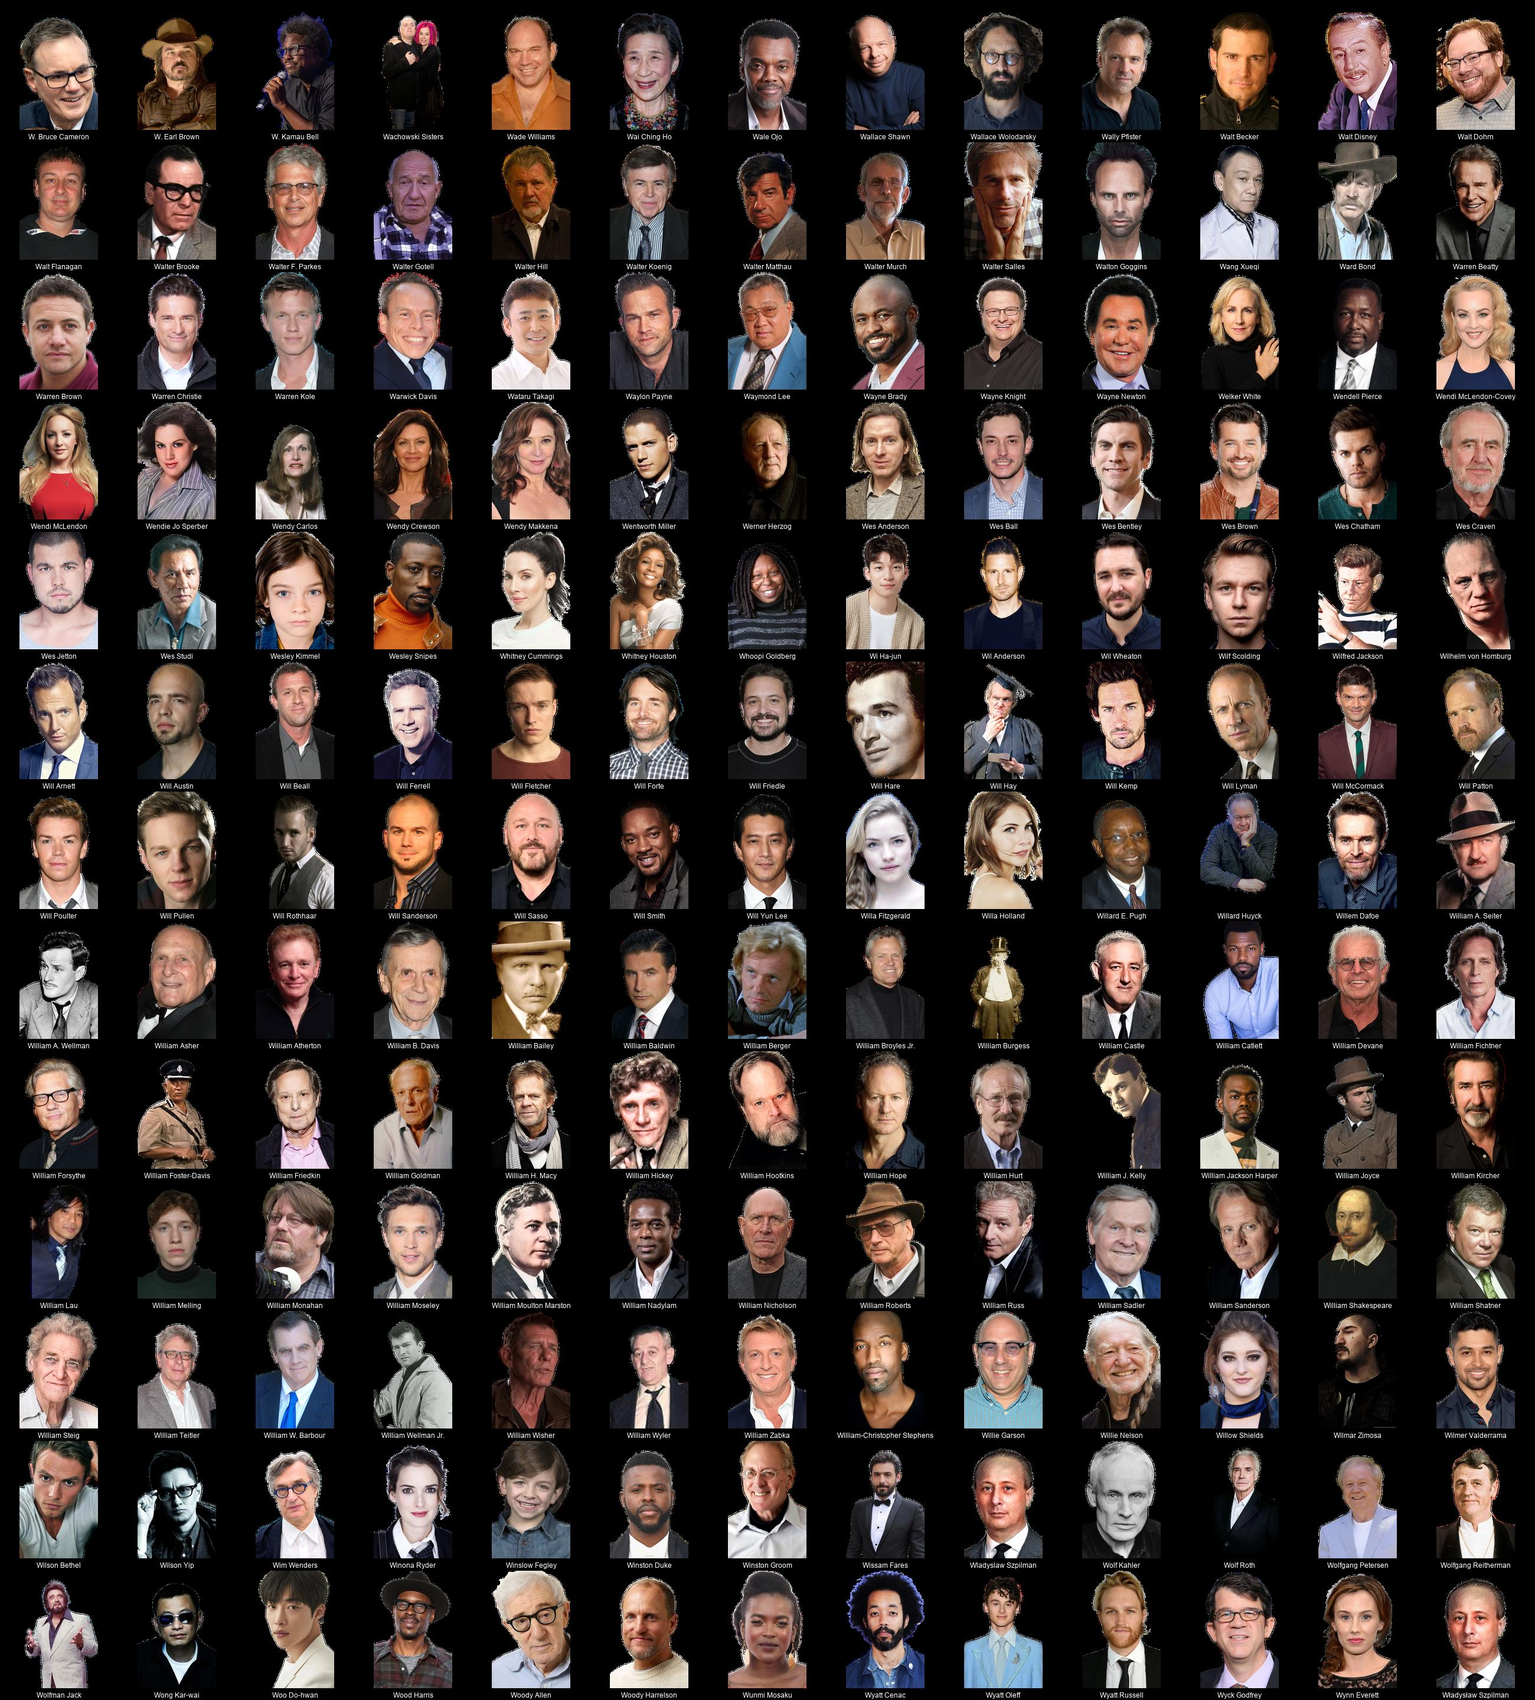
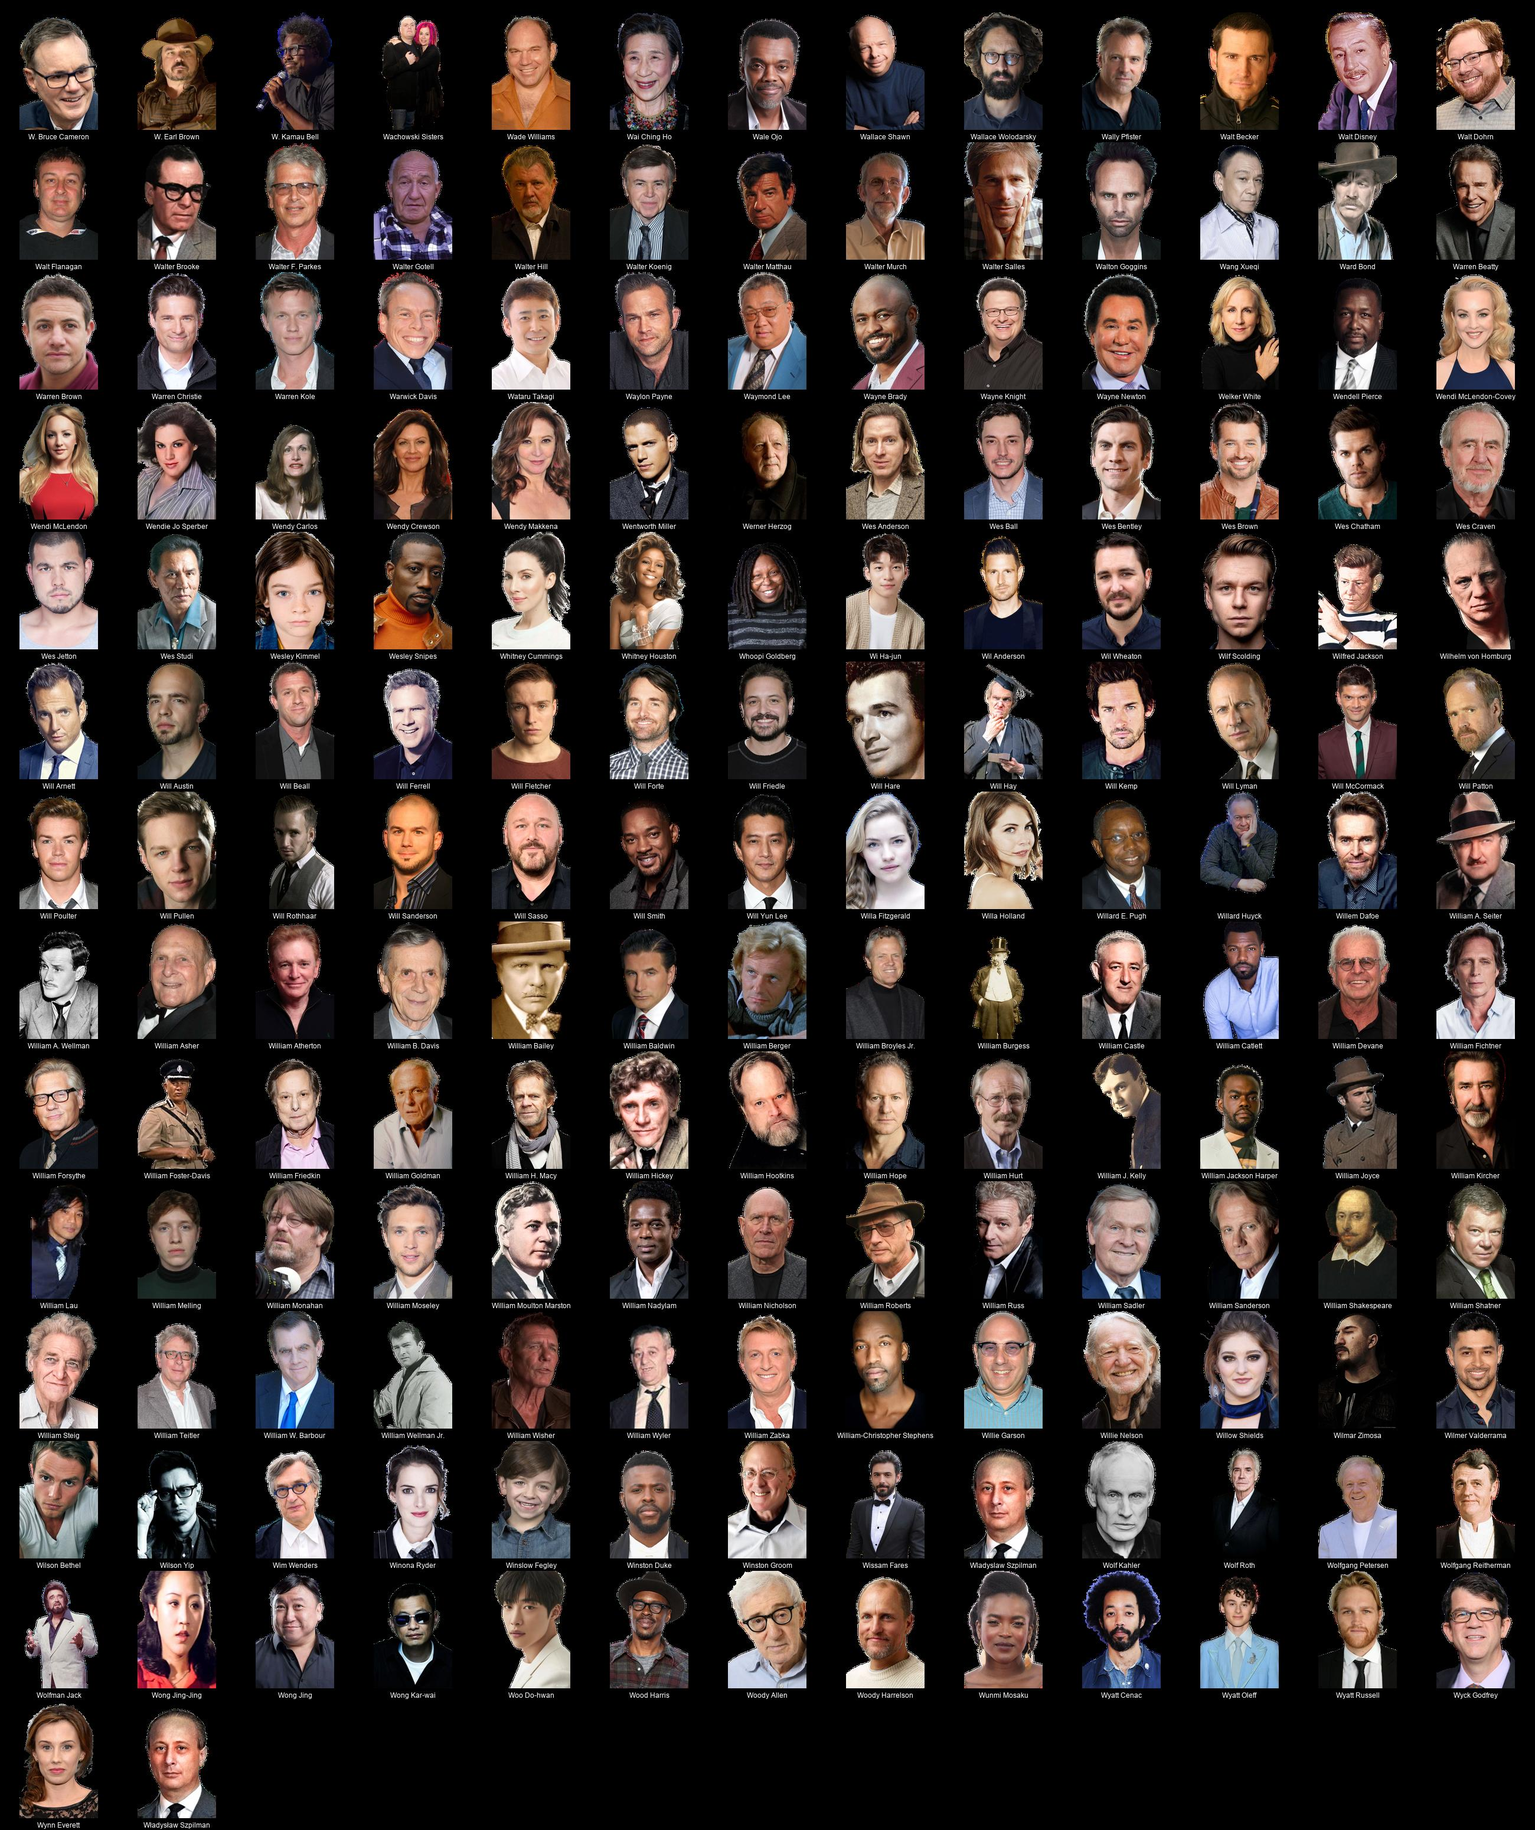
more people

diff --git a/README.md b/README.md
@@ -1,10 +1,10 @@
-# Kometa People Images - Transparent (transparent) (9437 Images)
+# Kometa People Images - Transparent (transparent) (9451 Images)
 
 <details><summary><a href="'">' (1 Images)</a></summary>
 
 * ['Weird Al' Yankovic](https://raw.githubusercontent.com/Kometa-Team/People-Images-transparent/master/'/Images/%27Weird%20Al%27%20Yankovic.png)
 </details>
-<details><summary><a href="A">A (772 Images)</a></summary>
+<details><summary><a href="A">A (773 Images)</a></summary>
 
 * [AJ Kane](https://raw.githubusercontent.com/Kometa-Team/People-Images-transparent/master/A/Images/AJ%20Kane.png)
 * [Aamir Khan](https://raw.githubusercontent.com/Kometa-Team/People-Images-transparent/master/A/Images/Aamir%20Khan.png)
@@ -484,6 +484,7 @@
 * [Andy Buckley](https://raw.githubusercontent.com/Kometa-Team/People-Images-transparent/master/A/Images/Andy%20Buckley.png)
 * [Andy Dick](https://raw.githubusercontent.com/Kometa-Team/People-Images-transparent/master/A/Images/Andy%20Dick.png)
 * [Andy García](https://raw.githubusercontent.com/Kometa-Team/People-Images-transparent/master/A/Images/Andy%20Garc%C3%ADa.png)
+* [Andy Griffith](https://raw.githubusercontent.com/Kometa-Team/People-Images-transparent/master/A/Images/Andy%20Griffith.png)
 * [Andy Hoff](https://raw.githubusercontent.com/Kometa-Team/People-Images-transparent/master/A/Images/Andy%20Hoff.png)
 * [Andy Le](https://raw.githubusercontent.com/Kometa-Team/People-Images-transparent/master/A/Images/Andy%20Le.png)
 * [Andy Muschietti](https://raw.githubusercontent.com/Kometa-Team/People-Images-transparent/master/A/Images/Andy%20Muschietti.png)
@@ -779,7 +780,7 @@
 * [Azhar Usman](https://raw.githubusercontent.com/Kometa-Team/People-Images-transparent/master/A/Images/Azhar%20Usman.png)
 * [Aziz Ansari](https://raw.githubusercontent.com/Kometa-Team/People-Images-transparent/master/A/Images/Aziz%20Ansari.png)
 </details>
-<details><summary><a href="B">B (475 Images)</a></summary>
+<details><summary><a href="B">B (477 Images)</a></summary>
 
 * [B.J. Penn](https://raw.githubusercontent.com/Kometa-Team/People-Images-transparent/master/B/Images/B.J.%20Penn.png)
 * [BD Wong](https://raw.githubusercontent.com/Kometa-Team/People-Images-transparent/master/B/Images/BD%20Wong.png)
@@ -1108,6 +1109,7 @@
 * [Brendan Gleeson](https://raw.githubusercontent.com/Kometa-Team/People-Images-transparent/master/B/Images/Brendan%20Gleeson.png)
 * [Brendan Hines](https://raw.githubusercontent.com/Kometa-Team/People-Images-transparent/master/B/Images/Brendan%20Hines.png)
 * [Brendan Hunt](https://raw.githubusercontent.com/Kometa-Team/People-Images-transparent/master/B/Images/Brendan%20Hunt.png)
+* [Brendan O'Carroll](https://raw.githubusercontent.com/Kometa-Team/People-Images-transparent/master/B/Images/Brendan%20O%27Carroll.png)
 * [Brendan Penny](https://raw.githubusercontent.com/Kometa-Team/People-Images-transparent/master/B/Images/Brendan%20Penny.png)
 * [Brendan Schaub](https://raw.githubusercontent.com/Kometa-Team/People-Images-transparent/master/B/Images/Brendan%20Schaub.png)
 * [Brendan Wayne](https://raw.githubusercontent.com/Kometa-Team/People-Images-transparent/master/B/Images/Brendan%20Wayne.png)
@@ -1237,6 +1239,7 @@
 * [Bryce Johnson](https://raw.githubusercontent.com/Kometa-Team/People-Images-transparent/master/B/Images/Bryce%20Johnson.png)
 * [Bráulio Mantovani](https://raw.githubusercontent.com/Kometa-Team/People-Images-transparent/master/B/Images/Br%C3%A1ulio%20Mantovani.png)
 * [Bud Abbott](https://raw.githubusercontent.com/Kometa-Team/People-Images-transparent/master/B/Images/Bud%20Abbott.png)
+* [Buddy Ebsen](https://raw.githubusercontent.com/Kometa-Team/People-Images-transparent/master/B/Images/Buddy%20Ebsen.png)
 * [Buddy Sosthand](https://raw.githubusercontent.com/Kometa-Team/People-Images-transparent/master/B/Images/Buddy%20Sosthand.png)
 * [Bugzy Malone](https://raw.githubusercontent.com/Kometa-Team/People-Images-transparent/master/B/Images/Bugzy%20Malone.png)
 * [Burgess Meredith](https://raw.githubusercontent.com/Kometa-Team/People-Images-transparent/master/B/Images/Burgess%20Meredith.png)
@@ -1257,7 +1260,7 @@
 * [Béla Tarr](https://raw.githubusercontent.com/Kometa-Team/People-Images-transparent/master/B/Images/B%C3%A9la%20Tarr.png)
 * [Bérénice Bejo](https://raw.githubusercontent.com/Kometa-Team/People-Images-transparent/master/B/Images/B%C3%A9r%C3%A9nice%20Bejo.png)
 </details>
-<details><summary><a href="C">C (612 Images)</a></summary>
+<details><summary><a href="C">C (613 Images)</a></summary>
 
 * [C. Robert Cargill](https://raw.githubusercontent.com/Kometa-Team/People-Images-transparent/master/C/Images/C.%20Robert%20Cargill.png)
 * [C. S. Forester](https://raw.githubusercontent.com/Kometa-Team/People-Images-transparent/master/C/Images/C.%20S.%20Forester.png)
@@ -1409,6 +1412,7 @@
 * [Chabris Napier-Lawrence](https://raw.githubusercontent.com/Kometa-Team/People-Images-transparent/master/C/Images/Chabris%20Napier-Lawrence.png)
 * [Chace Crawford](https://raw.githubusercontent.com/Kometa-Team/People-Images-transparent/master/C/Images/Chace%20Crawford.png)
 * [Chad Daniels](https://raw.githubusercontent.com/Kometa-Team/People-Images-transparent/master/C/Images/Chad%20Daniels.png)
+* [Chad Hayes](https://raw.githubusercontent.com/Kometa-Team/People-Images-transparent/master/C/Images/Chad%20Hayes.png)
 * [Chad L. Coleman](https://raw.githubusercontent.com/Kometa-Team/People-Images-transparent/master/C/Images/Chad%20L.%20Coleman.png)
 * [Chad Michael Murray](https://raw.githubusercontent.com/Kometa-Team/People-Images-transparent/master/C/Images/Chad%20Michael%20Murray.png)
 * [Chad Oman](https://raw.githubusercontent.com/Kometa-Team/People-Images-transparent/master/C/Images/Chad%20Oman.png)
@@ -3325,7 +3329,7 @@
 * [Günter Lamprecht](https://raw.githubusercontent.com/Kometa-Team/People-Images-transparent/master/G/Images/G%C3%BCnter%20Lamprecht.png)
 * [Günther Stoll](https://raw.githubusercontent.com/Kometa-Team/People-Images-transparent/master/G/Images/G%C3%BCnther%20Stoll.png)
 </details>
-<details><summary><a href="H">H (222 Images)</a></summary>
+<details><summary><a href="H">H (224 Images)</a></summary>
 
 * [H. Jon Benjamin](https://raw.githubusercontent.com/Kometa-Team/People-Images-transparent/master/H/Images/H.%20Jon%20Benjamin.png)
 * [H.M. Walker](https://raw.githubusercontent.com/Kometa-Team/People-Images-transparent/master/H/Images/H.M.%20Walker.png)
@@ -3393,6 +3397,7 @@
 * [Harris Yulin](https://raw.githubusercontent.com/Kometa-Team/People-Images-transparent/master/H/Images/Harris%20Yulin.png)
 * [Harrison Ford](https://raw.githubusercontent.com/Kometa-Team/People-Images-transparent/master/H/Images/Harrison%20Ford.png)
 * [Harrison Osterfield](https://raw.githubusercontent.com/Kometa-Team/People-Images-transparent/master/H/Images/Harrison%20Osterfield.png)
+* [Harry Beresford](https://raw.githubusercontent.com/Kometa-Team/People-Images-transparent/master/H/Images/Harry%20Beresford.png)
 * [Harry Carey, Jr.](https://raw.githubusercontent.com/Kometa-Team/People-Images-transparent/master/H/Images/Harry%20Carey%2C%20Jr..png)
 * [Harry Collett](https://raw.githubusercontent.com/Kometa-Team/People-Images-transparent/master/H/Images/Harry%20Collett.png)
 * [Harry Dean Stanton](https://raw.githubusercontent.com/Kometa-Team/People-Images-transparent/master/H/Images/Harry%20Dean%20Stanton.png)
@@ -3401,6 +3406,7 @@
 * [Harry Lennix](https://raw.githubusercontent.com/Kometa-Team/People-Images-transparent/master/H/Images/Harry%20Lennix.png)
 * [Harry Lloyd](https://raw.githubusercontent.com/Kometa-Team/People-Images-transparent/master/H/Images/Harry%20Lloyd.png)
 * [Harry Melling](https://raw.githubusercontent.com/Kometa-Team/People-Images-transparent/master/H/Images/Harry%20Melling.png)
+* [Harry Morgan](https://raw.githubusercontent.com/Kometa-Team/People-Images-transparent/master/H/Images/Harry%20Morgan.png)
 * [Harry Saltzman](https://raw.githubusercontent.com/Kometa-Team/People-Images-transparent/master/H/Images/Harry%20Saltzman.png)
 * [Harry Shum Jr.](https://raw.githubusercontent.com/Kometa-Team/People-Images-transparent/master/H/Images/Harry%20Shum%20Jr..png)
 * [Harry Styles](https://raw.githubusercontent.com/Kometa-Team/People-Images-transparent/master/H/Images/Harry%20Styles.png)
@@ -3669,7 +3675,7 @@
 * [Izaac Wang](https://raw.githubusercontent.com/Kometa-Team/People-Images-transparent/master/I/Images/Izaac%20Wang.png)
 * [Izabella Scorupco](https://raw.githubusercontent.com/Kometa-Team/People-Images-transparent/master/I/Images/Izabella%20Scorupco.png)
 </details>
-<details><summary><a href="J">J (1170 Images)</a></summary>
+<details><summary><a href="J">J (1172 Images)</a></summary>
 
 * [J'Dvonte](https://raw.githubusercontent.com/Kometa-Team/People-Images-transparent/master/J/Images/J%27Dvonte.png)
 * [J. A. Bayona](https://raw.githubusercontent.com/Kometa-Team/People-Images-transparent/master/J/Images/J.%20A.%20Bayona.png)
@@ -4277,6 +4283,8 @@
 * [Jin Hee-kyung](https://raw.githubusercontent.com/Kometa-Team/People-Images-transparent/master/J/Images/Jin%20Hee-kyung.png)
 * [Jin Hye-Kyung](https://raw.githubusercontent.com/Kometa-Team/People-Images-transparent/master/J/Images/Jin%20Hye-Kyung.png)
 * [Jin Kyung](https://raw.githubusercontent.com/Kometa-Team/People-Images-transparent/master/J/Images/Jin%20Kyung.png)
+* [Jing Wang](https://raw.githubusercontent.com/Kometa-Team/People-Images-transparent/master/J/Images/Jing%20Wang.png)
+* [Jing Wong](https://raw.githubusercontent.com/Kometa-Team/People-Images-transparent/master/J/Images/Jing%20Wong.png)
 * [Jisshu Sengupta](https://raw.githubusercontent.com/Kometa-Team/People-Images-transparent/master/J/Images/Jisshu%20Sengupta.png)
 * [Jiří Menzel](https://raw.githubusercontent.com/Kometa-Team/People-Images-transparent/master/J/Images/Ji%C5%99%C3%AD%20Menzel.png)
 * [Jo Han-chul](https://raw.githubusercontent.com/Kometa-Team/People-Images-transparent/master/J/Images/Jo%20Han-chul.png)
@@ -5300,7 +5308,7 @@
 * [Kyung Soo-jin](https://raw.githubusercontent.com/Kometa-Team/People-Images-transparent/master/K/Images/Kyung%20Soo-jin.png)
 * [Kō Nakahira](https://raw.githubusercontent.com/Kometa-Team/People-Images-transparent/master/K/Images/K%C5%8D%20Nakahira.png)
 </details>
-<details><summary><a href="L">L (403 Images)</a></summary>
+<details><summary><a href="L">L (405 Images)</a></summary>
 
 * [L. Q. Jones](https://raw.githubusercontent.com/Kometa-Team/People-Images-transparent/master/L/Images/L.%20Q.%20Jones.png)
 * [LL Cool J](https://raw.githubusercontent.com/Kometa-Team/People-Images-transparent/master/L/Images/LL%20Cool%20J.png)
@@ -5420,6 +5428,7 @@
 * [Lee Jung-eun](https://raw.githubusercontent.com/Kometa-Team/People-Images-transparent/master/L/Images/Lee%20Jung-eun.png)
 * [Lee Jung-jae](https://raw.githubusercontent.com/Kometa-Team/People-Images-transparent/master/L/Images/Lee%20Jung-jae.png)
 * [Lee Latchford](https://raw.githubusercontent.com/Kometa-Team/People-Images-transparent/master/L/Images/Lee%20Latchford.png)
+* [Lee Lik-chi](https://raw.githubusercontent.com/Kometa-Team/People-Images-transparent/master/L/Images/Lee%20Lik-chi.png)
 * [Lee Mack](https://raw.githubusercontent.com/Kometa-Team/People-Images-transparent/master/L/Images/Lee%20Mack.png)
 * [Lee Marvin](https://raw.githubusercontent.com/Kometa-Team/People-Images-transparent/master/L/Images/Lee%20Marvin.png)
 * [Lee Min-ho](https://raw.githubusercontent.com/Kometa-Team/People-Images-transparent/master/L/Images/Lee%20Min-ho.png)
@@ -5654,6 +5663,7 @@
 * [Lucian Perez](https://raw.githubusercontent.com/Kometa-Team/People-Images-transparent/master/L/Images/Lucian%20Perez.png)
 * [Luciana Paluzzi](https://raw.githubusercontent.com/Kometa-Team/People-Images-transparent/master/L/Images/Luciana%20Paluzzi.png)
 * [Lucie Laurier](https://raw.githubusercontent.com/Kometa-Team/People-Images-transparent/master/L/Images/Lucie%20Laurier.png)
+* [Lucille Ball](https://raw.githubusercontent.com/Kometa-Team/People-Images-transparent/master/L/Images/Lucille%20Ball.png)
 * [Lucio Fulci](https://raw.githubusercontent.com/Kometa-Team/People-Images-transparent/master/L/Images/Lucio%20Fulci.png)
 * [Lucrecia Martel](https://raw.githubusercontent.com/Kometa-Team/People-Images-transparent/master/L/Images/Lucrecia%20Martel.png)
 * [Lucy Boynton](https://raw.githubusercontent.com/Kometa-Team/People-Images-transparent/master/L/Images/Lucy%20Boynton.png)
@@ -5706,7 +5716,7 @@
 * [Léa Seydoux](https://raw.githubusercontent.com/Kometa-Team/People-Images-transparent/master/L/Images/L%C3%A9a%20Seydoux.png)
 * [Lúcio Andrey](https://raw.githubusercontent.com/Kometa-Team/People-Images-transparent/master/L/Images/L%C3%BAcio%20Andrey.png)
 </details>
-<details><summary><a href="M">M (878 Images)</a></summary>
+<details><summary><a href="M">M (880 Images)</a></summary>
 
 * [M'laah Kaur Singh](https://raw.githubusercontent.com/Kometa-Team/People-Images-transparent/master/M/Images/M%27laah%20Kaur%20Singh.png)
 * [M. Emmet Walsh](https://raw.githubusercontent.com/Kometa-Team/People-Images-transparent/master/M/Images/M.%20Emmet%20Walsh.png)
@@ -5755,6 +5765,7 @@
 * [Maggie Smith](https://raw.githubusercontent.com/Kometa-Team/People-Images-transparent/master/M/Images/Maggie%20Smith.png)
 * [Maggie Wheeler](https://raw.githubusercontent.com/Kometa-Team/People-Images-transparent/master/M/Images/Maggie%20Wheeler.png)
 * [Magnus Betnér](https://raw.githubusercontent.com/Kometa-Team/People-Images-transparent/master/M/Images/Magnus%20Betn%C3%A9r.png)
+* [Mah-Jing Wong](https://raw.githubusercontent.com/Kometa-Team/People-Images-transparent/master/M/Images/Mah-Jing%20Wong.png)
 * [Mahershala Ali](https://raw.githubusercontent.com/Kometa-Team/People-Images-transparent/master/M/Images/Mahershala%20Ali.png)
 * [Mahesh Babu](https://raw.githubusercontent.com/Kometa-Team/People-Images-transparent/master/M/Images/Mahesh%20Babu.png)
 * [Mahesh Balraj](https://raw.githubusercontent.com/Kometa-Team/People-Images-transparent/master/M/Images/Mahesh%20Balraj.png)
@@ -6072,6 +6083,7 @@
 * [Matt Damon](https://raw.githubusercontent.com/Kometa-Team/People-Images-transparent/master/M/Images/Matt%20Damon.png)
 * [Matt Dillon](https://raw.githubusercontent.com/Kometa-Team/People-Images-transparent/master/M/Images/Matt%20Dillon.png)
 * [Matt Doran](https://raw.githubusercontent.com/Kometa-Team/People-Images-transparent/master/M/Images/Matt%20Doran.png)
+* [Matt Ember](https://raw.githubusercontent.com/Kometa-Team/People-Images-transparent/master/M/Images/Matt%20Ember.png)
 * [Matt Frewer](https://raw.githubusercontent.com/Kometa-Team/People-Images-transparent/master/M/Images/Matt%20Frewer.png)
 * [Matt Gerald](https://raw.githubusercontent.com/Kometa-Team/People-Images-transparent/master/M/Images/Matt%20Gerald.png)
 * [Matt Helm](https://raw.githubusercontent.com/Kometa-Team/People-Images-transparent/master/M/Images/Matt%20Helm.png)
@@ -9202,7 +9214,7 @@
 * [Von Lewis](https://raw.githubusercontent.com/Kometa-Team/People-Images-transparent/master/V/Images/Von%20Lewis.png)
 * [Věra Chytilová](https://raw.githubusercontent.com/Kometa-Team/People-Images-transparent/master/V/Images/V%C4%9Bra%20Chytilov%C3%A1.png)
 </details>
-<details><summary><a href="W">W (169 Images)</a></summary>
+<details><summary><a href="W">W (171 Images)</a></summary>
 
 * [W. Bruce Cameron](https://raw.githubusercontent.com/Kometa-Team/People-Images-transparent/master/W/Images/W.%20Bruce%20Cameron.png)
 * [W. Earl Brown](https://raw.githubusercontent.com/Kometa-Team/People-Images-transparent/master/W/Images/W.%20Earl%20Brown.png)
@@ -9361,6 +9373,8 @@
 * [Wolfgang Petersen](https://raw.githubusercontent.com/Kometa-Team/People-Images-transparent/master/W/Images/Wolfgang%20Petersen.png)
 * [Wolfgang Reitherman](https://raw.githubusercontent.com/Kometa-Team/People-Images-transparent/master/W/Images/Wolfgang%20Reitherman.png)
 * [Wolfman Jack](https://raw.githubusercontent.com/Kometa-Team/People-Images-transparent/master/W/Images/Wolfman%20Jack.png)
+* [Wong Jing-Jing](https://raw.githubusercontent.com/Kometa-Team/People-Images-transparent/master/W/Images/Wong%20Jing-Jing.png)
+* [Wong Jing](https://raw.githubusercontent.com/Kometa-Team/People-Images-transparent/master/W/Images/Wong%20Jing.png)
 * [Wong Kar-wai](https://raw.githubusercontent.com/Kometa-Team/People-Images-transparent/master/W/Images/Wong%20Kar-wai.png)
 * [Woo Do-hwan](https://raw.githubusercontent.com/Kometa-Team/People-Images-transparent/master/W/Images/Woo%20Do-hwan.png)
 * [Wood Harris](https://raw.githubusercontent.com/Kometa-Team/People-Images-transparent/master/W/Images/Wood%20Harris.png)

diff --git a/W/README.md b/W/README.md
@@ -1,4 +1,4 @@
-# Kometa People Images - Transparent (transparent) - W (169 Images)
+# Kometa People Images - Transparent (transparent) - W (171 Images)
 ![Grid](grid.jpg)
 
 * [W. Bruce Cameron](https://raw.githubusercontent.com/Kometa-Team/People-Images-transparent/master/W/Images/W.%20Bruce%20Cameron.png)
@@ -158,6 +158,8 @@
 * [Wolfgang Petersen](https://raw.githubusercontent.com/Kometa-Team/People-Images-transparent/master/W/Images/Wolfgang%20Petersen.png)
 * [Wolfgang Reitherman](https://raw.githubusercontent.com/Kometa-Team/People-Images-transparent/master/W/Images/Wolfgang%20Reitherman.png)
 * [Wolfman Jack](https://raw.githubusercontent.com/Kometa-Team/People-Images-transparent/master/W/Images/Wolfman%20Jack.png)
+* [Wong Jing-Jing](https://raw.githubusercontent.com/Kometa-Team/People-Images-transparent/master/W/Images/Wong%20Jing-Jing.png)
+* [Wong Jing](https://raw.githubusercontent.com/Kometa-Team/People-Images-transparent/master/W/Images/Wong%20Jing.png)
 * [Wong Kar-wai](https://raw.githubusercontent.com/Kometa-Team/People-Images-transparent/master/W/Images/Wong%20Kar-wai.png)
 * [Woo Do-hwan](https://raw.githubusercontent.com/Kometa-Team/People-Images-transparent/master/W/Images/Woo%20Do-hwan.png)
 * [Wood Harris](https://raw.githubusercontent.com/Kometa-Team/People-Images-transparent/master/W/Images/Wood%20Harris.png)
